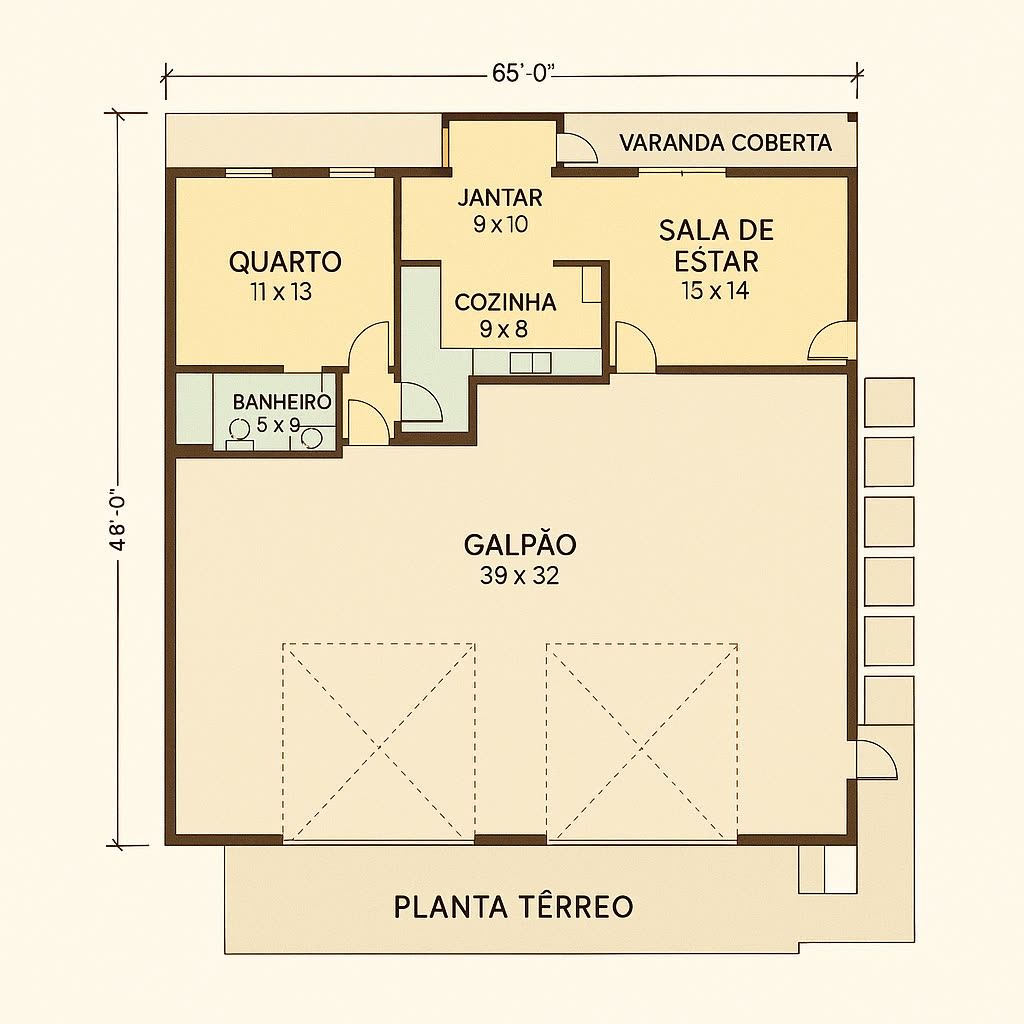
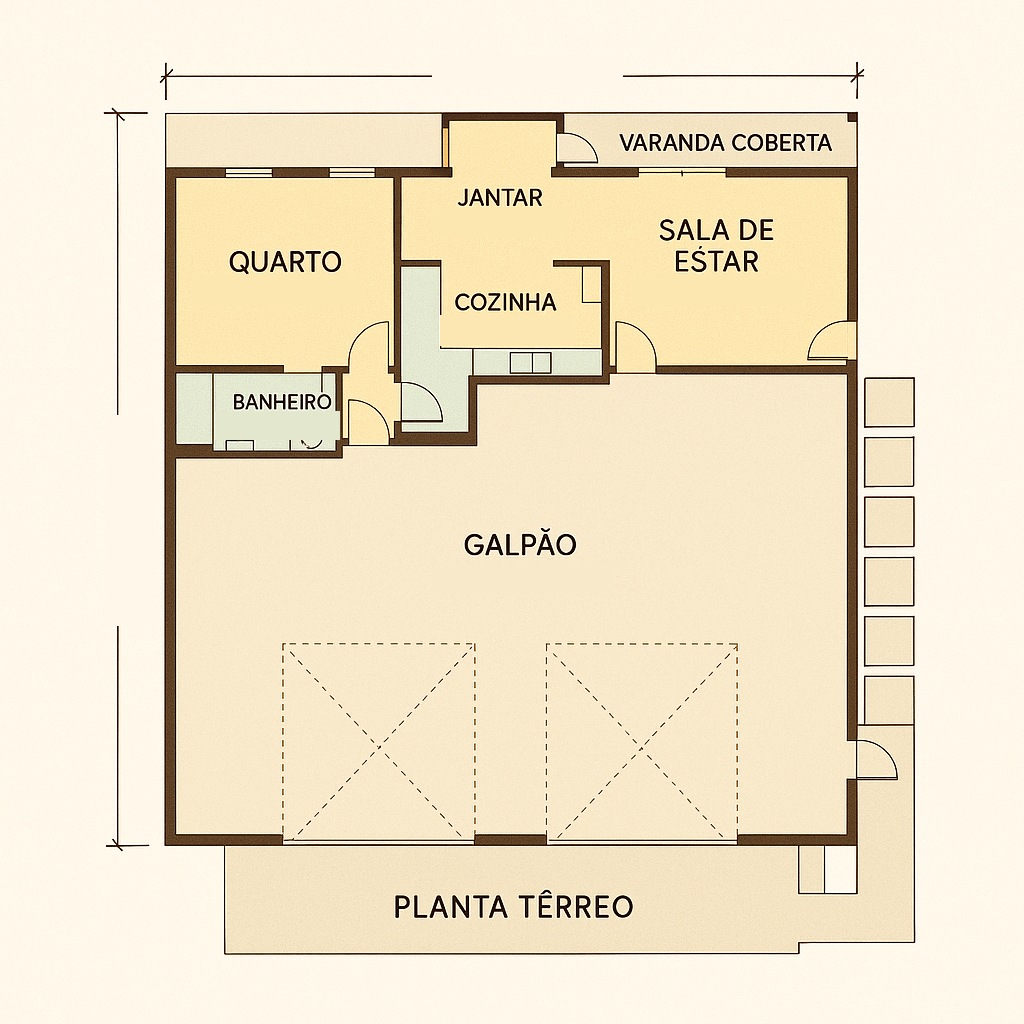
Ranchos: area total construida e plantas sem medidas em pes
Os 8 ranchos anunciavam so a area de moradia e escondiam o galpao, que e
metade do produto. O Hospedes aparecia como 67 m2 quando sao 183 m2
construidos. Trocado nas quatro paginas, com a divisao explicita nas specs.

As quatro plantas limpas (Hospedes, Compacto, Fazenda e RV) perderam as cotas
em pes herdadas do houseplans.com, mais GALPAO e MECANICO que estavam com
trema e BANHEIRO que estava truncado.

diff --git a/construtora.html b/construtora.html
@@ -1924,9 +1924,9 @@
         data-cat="rancho 2q"
         data-img="assets/modelos/rancho-barndominium-1.jpg" data-pos="center 40%"
         data-name="Rancho Barndominium"
-        data-area="117 m² · 2 quartos · Térrea"
-        data-desc="Rancho estilo barndominium com fachada clara em ripas verticais e telhado metálico: 117 m² com 2 quartos (sendo 1 suíte), sala de estar e jantar integradas com pé-direito alto, cozinha com ilha, varanda frontal de 37 m² e garagem anexa de 74 m² para 2 carros."
-        data-specs='["117 m² construídos","2 quartos (1 suíte)","Sala de estar/jantar integrada · pé-direito alto","Cozinha com ilha","Garagem anexa 74 m² · 2 vagas","Varanda frontal 37 m²"]'
+        data-area="191 m² · 2 quartos · Térrea"
+        data-desc="Rancho estilo barndominium com fachada clara em ripas verticais e telhado metálico: 117 m² de moradia com 2 quartos (sendo 1 suíte), sala de estar e jantar integradas com pé-direito alto, cozinha com ilha, varanda frontal de 37 m² e garagem anexa de 74 m² para 2 carros."
+        data-specs='["191 m² construídos no total","Moradia 117 m² + garagem 74 m²","2 quartos (1 suíte)","Sala de estar/jantar integrada · pé-direito alto","Cozinha com ilha","Garagem anexa 74 m² · 2 vagas","Varanda frontal 37 m²"]'
         data-photos='["assets/modelos/rancho-barndominium-1.jpg","assets/modelos/rancho-barndominium-planta.jpg"]'
         data-wpp="Olá! Vi o Rancho Barndominium no site e quero saber mais."
         data-related='["Rancho Compacto","Rancho Fazenda","Rancho Hóspedes"]'>
@@ -1940,9 +1940,9 @@
         data-cat="rancho 2q sobrado"
         data-img="assets/modelos/rancho-barndominium-sobrado-1.jpg" data-pos="center 40%"
         data-name="Rancho Barndominium Sobrado"
-        data-area="145 m² · 2 quartos · Sobrado"
-        data-desc="Celeiro americano clássico em dois pavimentos, telhado gambrel e fachada clara: 145 m² com 2 quartos (1 suíte no pavimento superior), sala de estar/jantar com pé-direito duplo, escritório e garagem para até 3 carros."
-        data-specs='["145 m² construídos","2 quartos (1 suíte no pavimento superior)","2,5 banheiros","Sala de estar/jantar · pé-direito duplo","Escritório","Garagem para até 3 carros","Telhado gambrel · fachada clara"]'
+        data-area="214 m² · 2 quartos · Sobrado"
+        data-desc="Celeiro americano clássico em dois pavimentos, telhado gambrel e fachada clara: 145 m² de moradia com 2 quartos (1 suíte no pavimento superior), sala de estar/jantar com pé-direito duplo, escritório e garagem para até 3 carros."
+        data-specs='["214 m² construídos no total","Moradia 145 m² + garagem 69 m²","2 quartos (1 suíte no pavimento superior)","2,5 banheiros","Sala de estar/jantar · pé-direito duplo","Escritório","Garagem para até 3 carros","Telhado gambrel · fachada clara"]'
         data-photos='["assets/modelos/rancho-barndominium-sobrado-1.jpg","assets/modelos/rancho-barndominium-sobrado-2.jpg","assets/modelos/rancho-barndominium-sobrado-3.jpg","assets/modelos/rancho-barndominium-sobrado-planta-terreo.jpg","assets/modelos/rancho-barndominium-sobrado-planta-superior.jpg"]'
         data-wpp="Olá! Vi o Rancho Barndominium Sobrado no site e quero saber mais."
         data-related='["Rancho Barndominium","Rancho Família","Rancho RV"]'>
@@ -1956,9 +1956,9 @@
         data-cat="rancho 3q"
         data-img="assets/modelos/rancho-familia-1.jpg" data-pos="center 45%"
         data-name="Rancho Família"
-        data-area="172 m² · 3 quartos · Lareira"
-        data-desc="Rancho familiar de 172 m², 3 quartos sendo 1 suíte, sala de estar com lareira integrada à cozinha e jantar, escritório e garagem. O equilíbrio certo entre espaço, conforto e o visual celeiro americano da Wood House."
-        data-specs='["172 m² construídos","3 quartos (1 suíte)","Sala com lareira + cozinha integrada","Escritório","Garagem 1 vaga","Varanda coberta"]'
+        data-area="261 m² · 3 quartos · Lareira"
+        data-desc="Rancho familiar com 172 m² de moradia, 3 quartos sendo 1 suíte, sala de estar com lareira integrada à cozinha e jantar, escritório e garagem. O equilíbrio certo entre espaço, conforto e o visual celeiro americano da Wood House."
+        data-specs='["261 m² construídos no total","Moradia 172 m² + garagem 89 m²","3 quartos (1 suíte)","Sala com lareira + cozinha integrada","Escritório","Garagem 1 vaga","Varanda coberta"]'
         data-photos='["assets/modelos/rancho-familia-1.jpg","assets/modelos/rancho-familia-2.jpg","assets/modelos/rancho-familia-planta.jpg"]'
         data-wpp="Olá! Vi o Rancho Família no site e quero saber mais."
         data-related='["Rancho Barndominium","Rancho Branco","Rancho Fazenda"]'>
@@ -1972,9 +1972,9 @@
         data-cat="rancho 3q"
         data-img="assets/modelos/rancho-branco-1.jpg" data-pos="center 45%"
         data-name="Rancho Branco"
-        data-area="186 m² · 3 quartos · Fachada branca"
+        data-area="275 m² · 3 quartos · Fachada branca"
         data-desc="Versão clara da coleção Ranchos: fachada branca moderna com chaminé de pedra, cozinha com ilha integrada à sala de estar com lareira, 3 quartos e garagem de 89 m² para 2 vagas."
-        data-specs='["186 m² construídos","3 quartos (1 suíte)","Cozinha com ilha + great room","Lareira","Garagem 89 m² · 2 vagas","Varanda frontal"]'
+        data-specs='["275 m² construídos no total","Moradia 186 m² + garagem 89 m²","3 quartos (1 suíte)","Cozinha com ilha + great room","Lareira","Garagem 89 m² · 2 vagas","Varanda frontal"]'
         data-photos='["assets/modelos/rancho-branco-1.jpg","assets/modelos/rancho-branco-2.jpg","assets/modelos/rancho-branco-planta.jpg"]'
         data-wpp="Olá! Vi o Rancho Branco no site e quero saber mais."
         data-related='["Rancho Família","Rancho Barndominium","Rancho RV"]'>
@@ -1988,9 +1988,9 @@
         data-cat="rancho"
         data-img="assets/modelos/rancho-rv-1.jpg" data-pos="center 45%"
         data-name="Rancho RV"
-        data-area="163 m² · Suíte ampla · Shop p/ RV"
+        data-area="263 m² · Suíte ampla · Shop p/ RV"
         data-desc="Rancho com suíte ampla, escritório e varanda envolvente (wraparound porch) de 50 m², além de um shop/garagem de 100 m² grande o bastante pra guardar um motorhome ou RV inteiro."
-        data-specs='["163 m² construídos","1 suíte ampla + escritório","Bar/copa integrado","Varanda envolvente 50 m²","Shop/garagem 100 m² (comporta RV)","Madeira nobre âmbar"]'
+        data-specs='["263 m² construídos no total","Moradia 163 m² + shop 100 m²","1 suíte ampla + escritório","Bar/copa integrado","Varanda envolvente 50 m²","Shop/garagem 100 m² (comporta RV)","Madeira nobre âmbar"]'
         data-photos='["assets/modelos/rancho-rv-1.jpg","assets/modelos/rancho-rv-2.jpg","assets/modelos/rancho-rv-planta.jpg"]'
         data-wpp="Olá! Vi o Rancho RV no site e quero saber mais."
         data-related='["Rancho Compacto","Rancho Hóspedes","Rancho Fazenda"]'>
@@ -2004,9 +2004,9 @@
         data-cat="rancho 2q"
         data-img="assets/modelos/rancho-fazenda-1.jpg" data-pos="center 45%"
         data-name="Rancho Fazenda"
-        data-area="115 m² · 2 suítes · 2 Pavimentos · Galpão 6 vagas"
+        data-area="263 m² · 2 suítes · 2 Pavimentos · Galpão 6 vagas"
         data-desc="Sede de fazenda em 2 pavimentos: shop/galpão de 148 m² com 6 vagas no térreo, sala de arreios e área de apoio rural, e no piso de cima 2 suítes com banheiro próprio. Perfeito pra quem já tem ou está formando propriedade rural."
-        data-specs='["115 m² de área residencial · 2 pavimentos","Galpão/shop 148 m² · 6 vagas","Sala de arreios (apoio rural)","2 suítes com banheiro próprio","Great room com cozinha integrada","Madeira nobre âmbar"]'
+        data-specs='["263 m² construídos no total","Moradia 115 m² em 2 pavimentos + galpão 148 m²","Galpão/shop com 6 vagas","Sala de arreios (apoio rural)","2 suítes com banheiro próprio","Great room com cozinha integrada","Madeira nobre âmbar"]'
         data-photos='["assets/modelos/rancho-fazenda-1.jpg","assets/modelos/rancho-fazenda-2.jpg","assets/modelos/rancho-fazenda-planta.jpg"]'
         data-wpp="Olá! Vi o Rancho Fazenda no site e quero saber mais."
         data-related='["Rancho RV","Rancho Barndominium","Rancho Hóspedes"]'>
@@ -2020,9 +2020,9 @@
         data-cat="rancho 2q"
         data-img="assets/modelos/rancho-compacto-1.jpg" data-pos="center 45%"
         data-name="Rancho Compacto"
-        data-area="103 m² · 2 quartos · Shop 130 m²"
-        data-desc="Rancho estilo americano de 103 m² para família pequena, com 2 quartos, sala de estar e jantar integradas à cozinha, e um shop/garagem generoso de 130 m² anexo. Espaço de sobra pra guardar máquinas, ferramentas ou virar oficina."
-        data-specs='["103 m² construídos","2 quartos + 1 banheiro","Sala, cozinha e jantar integradas","Shop/garagem anexo (130 m²)","Pátio externo","Madeira nobre âmbar"]'
+        data-area="233 m² · 2 quartos · Shop 130 m²"
+        data-desc="Rancho estilo americano com 103 m² de moradia para família pequena, com 2 quartos, sala de estar e jantar integradas à cozinha, e um shop/garagem generoso de 130 m² anexo. Espaço de sobra pra guardar máquinas, ferramentas ou virar oficina."
+        data-specs='["233 m² construídos no total","Moradia 103 m² + shop 130 m²","2 quartos + 1 banheiro","Sala, cozinha e jantar integradas","Shop/garagem anexo (130 m²)","Pátio externo","Madeira nobre âmbar"]'
         data-photos='["assets/modelos/rancho-compacto-1.jpg","assets/modelos/rancho-compacto-2.jpg","assets/modelos/rancho-compacto-planta.jpg"]'
         data-wpp="Olá! Vi o Rancho Compacto no site e quero saber mais."
         data-related='["Rancho Hóspedes","Rancho RV","Rancho Fazenda"]'>
@@ -2036,9 +2036,9 @@
         data-cat="rancho"
         data-img="assets/modelos/rancho-hospedes-1.jpg" data-pos="center 45%"
         data-name="Rancho Hóspedes"
-        data-area="67 m² · 1 quarto · Shop 2 vagas"
-        data-desc="Rancho compacto de 67 m² em madeira nobre, ideal para hóspedes ou casa de apoio na propriedade. Sala e cozinha integradas, quarto com banheiro próximo, varanda coberta e shop/oficina anexo com 2 vagas. 116 m² de área de armazenamento e trabalho."
-        data-specs='["67 m² construídos","1 quarto + banheiro","Sala e cozinha integradas","Varanda coberta","Shop/oficina anexo com 2 vagas","Madeira nobre âmbar"]'
+        data-area="183 m² · 1 quarto · Shop 2 vagas"
+        data-desc="Rancho compacto com 67 m² de moradia em madeira nobre, ideal para hóspedes ou casa de apoio na propriedade. Sala e cozinha integradas, quarto com banheiro próximo, varanda coberta e shop/oficina anexo com 2 vagas. 116 m² de área de armazenamento e trabalho."
+        data-specs='["183 m² construídos no total","Moradia 67 m² + shop 116 m²","1 quarto + banheiro","Sala e cozinha integradas","Varanda coberta","Shop/oficina anexo com 2 vagas","Madeira nobre âmbar"]'
         data-photos='["assets/modelos/rancho-hospedes-1.jpg","assets/modelos/rancho-hospedes-2.jpg","assets/modelos/rancho-hospedes-3.jpg","assets/modelos/rancho-hospedes-planta.jpg"]'
         data-wpp="Olá! Vi o Rancho Hóspedes no site e quero saber mais."
         data-related='["Rancho Compacto","Rancho RV","Rancho Fazenda"]'>

diff --git a/modelo.html b/modelo.html
@@ -848,10 +848,11 @@ const modelos = [
     ],
   },
   {
-    id: 'rancho-barndominium', nome: 'Rancho Barndominium', dorms: 2, area: '117 m²',
+    id: 'rancho-barndominium', nome: 'Rancho Barndominium', dorms: 2, area: '191 m²',
     fotos: ['assets/modelos/rancho-barndominium-1.jpg'],
     planta: 'assets/modelos/rancho-barndominium-planta.jpg',
     specs: [
+      ['Moradia (área fechada)', '117 m²'],
       ['Dimensões da construção', '12,2 m de frente x 24,4 m de fundo'],
       ['Suíte máster', '14,7 m²'], ['Banheiro da suíte', '5,3 m²'], ['Closet da suíte', '3,1 m²'],
       ['Quarto 2', '12,4 m²'], ['Banheiro 2', '4,5 m²'],
@@ -863,10 +864,11 @@ const modelos = [
     ],
   },
   {
-    id: 'rancho-barndominium-sobrado', nome: 'Rancho Barndominium Sobrado', dorms: 2, area: '145 m²',
+    id: 'rancho-barndominium-sobrado', nome: 'Rancho Barndominium Sobrado', dorms: 2, area: '214 m²',
     fotos: ['assets/modelos/rancho-barndominium-sobrado-1.jpg','assets/modelos/rancho-barndominium-sobrado-2.jpg','assets/modelos/rancho-barndominium-sobrado-3.jpg','assets/modelos/rancho-barndominium-sobrado-planta-superior.jpg'],
     planta: 'assets/modelos/rancho-barndominium-sobrado-planta-terreo.jpg',
     specs: [
+      ['Moradia (área fechada)', '145 m²'],
       ['Dimensões da construção', '9,75 m de frente x 20,1 m de fundo'],
       ['Quarto 1 (térreo)', '11,1 m²'],
       ['Suíte (pavimento superior)', '17,9 m² · pé-direito alto'], ['Banheiro da suíte', '3,6 m²'],
@@ -878,10 +880,11 @@ const modelos = [
     ],
   },
   {
-    id: 'rancho-familia', nome: 'Rancho Família', dorms: 3, area: '172 m²',
+    id: 'rancho-familia', nome: 'Rancho Família', dorms: 3, area: '261 m²',
     fotos: ['assets/modelos/rancho-familia-1.jpg','assets/modelos/rancho-familia-2.jpg'],
     planta: 'assets/modelos/rancho-familia-planta.jpg',
     specs: [
+      ['Moradia (área fechada)', '172 m²'],
       ['Dimensões da construção', '26,82 m de frente x 9,75 m de fundo'],
       ['Quarto 3', '14,5 m²'], ['Quarto 2', '14,5 m²'], ['Banheiro (social)', 'compartilhado'],
       ['Cozinha + jantar + sala de estar', '55 m² · open concept'],
@@ -892,10 +895,11 @@ const modelos = [
     ],
   },
   {
-    id: 'rancho-branco', nome: 'Rancho Branco', dorms: 3, area: '186 m²',
+    id: 'rancho-branco', nome: 'Rancho Branco', dorms: 3, area: '275 m²',
     fotos: ['assets/modelos/rancho-branco-1.jpg','assets/modelos/rancho-branco-2.jpg'],
     planta: 'assets/modelos/rancho-branco-planta.jpg',
     specs: [
+      ['Moradia (área fechada)', '186 m²'],
       ['Suíte máster', '18,1 m²'], ['Banheiro suíte', 'privativo'], ['Closet suíte', 'incluído'],
       ['Quarto 2', '12,5 m²'], ['Quarto 3', '12 m²'], ['Banheiro 2', 'compartilhado'],
       ['Cozinha + jantar', '33,6 m² · com ilha'], ['Sala de estar (great room)', '37 m² · lareira'],
@@ -905,10 +909,11 @@ const modelos = [
     ],
   },
   {
-    id: 'rancho-rv', nome: 'Rancho RV', dorms: 1, area: '163 m²',
+    id: 'rancho-rv', nome: 'Rancho RV', dorms: 1, area: '263 m²',
     fotos: ['assets/modelos/rancho-rv-1.jpg','assets/modelos/rancho-rv-2.jpg'],
     planta: 'assets/modelos/rancho-rv-planta.jpg',
     specs: [
+      ['Moradia (área fechada)', '163 m²'],
       ['Dimensões da construção', '14,63 m de frente x 11,58 m de fundo'],
       ['Suíte', '12,8 m²'], ['Banheiro suíte', 'privativo'],
       ['Bar/copa', '11,1 m²'], ['Sala de estar', '19,4 m²'],
@@ -918,10 +923,11 @@ const modelos = [
     ],
   },
   {
-    id: 'rancho-fazenda', nome: 'Rancho Fazenda', dorms: 2, area: '115 m²',
+    id: 'rancho-fazenda', nome: 'Rancho Fazenda', dorms: 2, area: '263 m²',
     fotos: ['assets/modelos/rancho-fazenda-1.jpg','assets/modelos/rancho-fazenda-2.jpg'],
     planta: 'assets/modelos/rancho-fazenda-planta.jpg',
     specs: [
+      ['Moradia (área fechada)', '115 m²'],
       ['Dimensões da construção', '17,07 m de frente x 21,95 m de fundo'],
       ['Sala de arreios', '22 m² · apoio rural'], ['Mecânico', 'área técnica'],
       ['Cozinha', '15 m²'], ['Sala de estar (great room)', '25,6 m² · pé-direito duplo'],
@@ -932,10 +938,11 @@ const modelos = [
     ],
   },
   {
-    id: 'rancho-compacto', nome: 'Rancho Compacto', dorms: 2, area: '103 m²',
+    id: 'rancho-compacto', nome: 'Rancho Compacto', dorms: 2, area: '233 m²',
     fotos: ['assets/modelos/rancho-compacto-1.jpg','assets/modelos/rancho-compacto-2.jpg'],
     planta: 'assets/modelos/rancho-compacto-planta.jpg',
     specs: [
+      ['Moradia (área fechada)', '103 m²'],
       ['Dimensões da construção', '19,96 m de frente x 11,58 m de fundo'],
       ['Quarto 1', '13,4 m²'], ['Quarto 2', '13,4 m²'], ['Banheiro', 'compartilhado'],
       ['Lavanderia', 'incluída'], ['Cozinha', '13,8 m² · com despensa'],
@@ -945,10 +952,11 @@ const modelos = [
     ],
   },
   {
-    id: 'rancho-hospedes', nome: 'Rancho Hóspedes', dorms: 1, area: '67 m²',
+    id: 'rancho-hospedes', nome: 'Rancho Hóspedes', dorms: 1, area: '183 m²',
     fotos: ['assets/modelos/rancho-hospedes-1.jpg','assets/modelos/rancho-hospedes-2.jpg','assets/modelos/rancho-hospedes-3.jpg'],
     planta: 'assets/modelos/rancho-hospedes-planta.jpg',
     specs: [
+      ['Moradia (área fechada)', '67 m²'],
       ['Quarto', '12,5 m²'], ['Banheiro', 'incluído'],
       ['Sala de jantar', '8 m²'], ['Cozinha', 'integrada'], ['Sala de estar', '16,5 m²'],
       ['Varanda coberta', '17 m²'],

diff --git a/catalogo-vendedores.html b/catalogo-vendedores.html
@@ -145,14 +145,14 @@ const modelos = [
   { id: 'chale-master', nome: 'Chalé Master', dorms: 2, area: '70 m²', valor: 'R$ 203.000,00', cat: 'chales' },
   { id: 'chale-horizonte', nome: 'Chalé Horizonte', dorms: 2, area: '92,4 m²', valor: 'R$ 267.960,00', cat: 'chales' },
 
-  { id: 'rancho-hospedes', nome: 'Rancho Hóspedes', dorms: 1, area: '67 m²', valor: 'Sob consulta', img: 'assets/modelos/rancho-hospedes-1.jpg', href: 'modelo.html?m=rancho-hospedes', cat: 'ranchos' },
-  { id: 'rancho-compacto', nome: 'Rancho Compacto', dorms: 2, area: '103 m²', valor: 'Sob consulta', img: 'assets/modelos/rancho-compacto-1.jpg', href: 'modelo.html?m=rancho-compacto', cat: 'ranchos' },
-  { id: 'rancho-fazenda', nome: 'Rancho Fazenda', dorms: 2, area: '115 m²', valor: 'Sob consulta', img: 'assets/modelos/rancho-fazenda-1.jpg', href: 'modelo.html?m=rancho-fazenda', cat: 'ranchos' },
-  { id: 'rancho-barndominium', nome: 'Rancho Barndominium', dorms: 2, area: '117 m²', valor: 'Sob consulta', img: 'assets/modelos/rancho-barndominium-1.jpg', href: 'modelo.html?m=rancho-barndominium', cat: 'ranchos' },
-  { id: 'rancho-rv', nome: 'Rancho RV', dorms: 1, area: '163 m²', valor: 'Sob consulta', img: 'assets/modelos/rancho-rv-1.jpg', href: 'modelo.html?m=rancho-rv', cat: 'ranchos' },
-  { id: 'rancho-familia', nome: 'Rancho Família', dorms: 3, area: '172 m²', valor: 'Sob consulta', img: 'assets/modelos/rancho-familia-1.jpg', href: 'modelo.html?m=rancho-familia', cat: 'ranchos' },
-  { id: 'rancho-branco', nome: 'Rancho Branco', dorms: 3, area: '186 m²', valor: 'Sob consulta', img: 'assets/modelos/rancho-branco-1.jpg', href: 'modelo.html?m=rancho-branco', cat: 'ranchos' },
-  { id: 'rancho-barndominium-sobrado', nome: 'Rancho Barndominium Sobrado', dorms: 2, area: '145 m²', valor: 'Sob consulta', img: 'assets/modelos/rancho-barndominium-sobrado-1.jpg', href: 'modelo.html?m=rancho-barndominium-sobrado', cat: 'ranchos' },
+  { id: 'rancho-hospedes', nome: 'Rancho Hóspedes', dorms: 1, area: '183 m²', valor: 'Sob consulta', img: 'assets/modelos/rancho-hospedes-1.jpg', href: 'modelo.html?m=rancho-hospedes', cat: 'ranchos' },
+  { id: 'rancho-compacto', nome: 'Rancho Compacto', dorms: 2, area: '233 m²', valor: 'Sob consulta', img: 'assets/modelos/rancho-compacto-1.jpg', href: 'modelo.html?m=rancho-compacto', cat: 'ranchos' },
+  { id: 'rancho-fazenda', nome: 'Rancho Fazenda', dorms: 2, area: '263 m²', valor: 'Sob consulta', img: 'assets/modelos/rancho-fazenda-1.jpg', href: 'modelo.html?m=rancho-fazenda', cat: 'ranchos' },
+  { id: 'rancho-barndominium', nome: 'Rancho Barndominium', dorms: 2, area: '191 m²', valor: 'Sob consulta', img: 'assets/modelos/rancho-barndominium-1.jpg', href: 'modelo.html?m=rancho-barndominium', cat: 'ranchos' },
+  { id: 'rancho-rv', nome: 'Rancho RV', dorms: 1, area: '263 m²', valor: 'Sob consulta', img: 'assets/modelos/rancho-rv-1.jpg', href: 'modelo.html?m=rancho-rv', cat: 'ranchos' },
+  { id: 'rancho-familia', nome: 'Rancho Família', dorms: 3, area: '261 m²', valor: 'Sob consulta', img: 'assets/modelos/rancho-familia-1.jpg', href: 'modelo.html?m=rancho-familia', cat: 'ranchos' },
+  { id: 'rancho-branco', nome: 'Rancho Branco', dorms: 3, area: '275 m²', valor: 'Sob consulta', img: 'assets/modelos/rancho-branco-1.jpg', href: 'modelo.html?m=rancho-branco', cat: 'ranchos' },
+  { id: 'rancho-barndominium-sobrado', nome: 'Rancho Barndominium Sobrado', dorms: 2, area: '214 m²', valor: 'Sob consulta', img: 'assets/modelos/rancho-barndominium-sobrado-1.jpg', href: 'modelo.html?m=rancho-barndominium-sobrado', cat: 'ranchos' },
 ];
 
 const grid = document.getElementById('grid');

diff --git a/parceiros.html b/parceiros.html
@@ -740,7 +740,7 @@
         <div class="mod-body">
           <div class="mod-tag">Rancho · Sob consulta</div>
           <h3>Rancho Branco</h3>
-          <div class="mod-area">186 m² · 3 quartos</div>
+          <div class="mod-area">275 m² · 3 quartos</div>
         </div>
       </div>
       <div class="mod-card reveal">
@@ -748,7 +748,7 @@
         <div class="mod-body">
           <div class="mod-tag">Rancho · Sob consulta</div>
           <h3>Rancho Compacto</h3>
-          <div class="mod-area">103 m² · 2 quartos</div>
+          <div class="mod-area">233 m² · 2 quartos</div>
         </div>
       </div>
       <div class="mod-card reveal">
@@ -756,7 +756,7 @@
         <div class="mod-body">
           <div class="mod-tag">Rancho · Sob consulta</div>
           <h3>Rancho Hóspedes</h3>
-          <div class="mod-area">67 m² · 1 quarto</div>
+          <div class="mod-area">183 m² · 1 quarto</div>
         </div>
       </div>
       <div class="mod-card reveal">
@@ -764,7 +764,7 @@
         <div class="mod-body">
           <div class="mod-tag">Rancho · Sob consulta</div>
           <h3>Rancho Barndominium Sobrado</h3>
-          <div class="mod-area">145 m² · 2 dormitórios</div>
+          <div class="mod-area">214 m² · 2 dormitórios</div>
         </div>
       </div>
       <div class="mod-card reveal">
